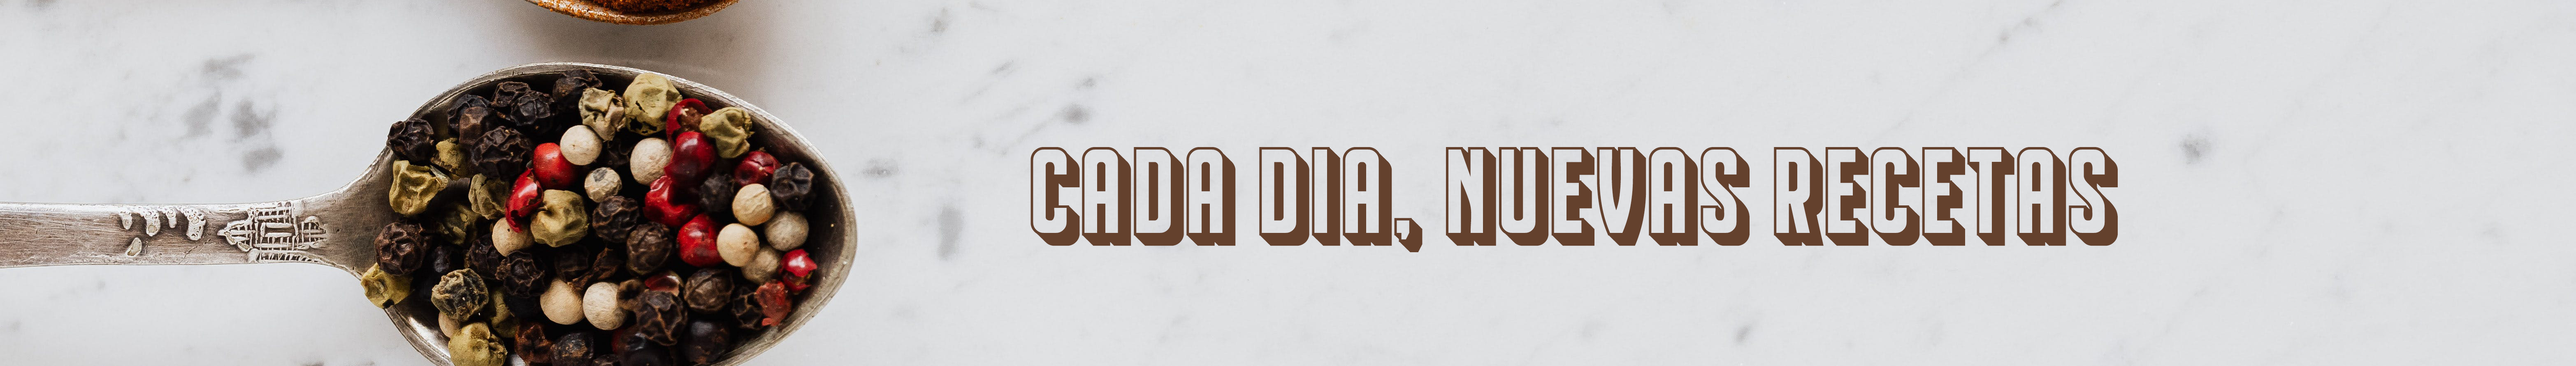
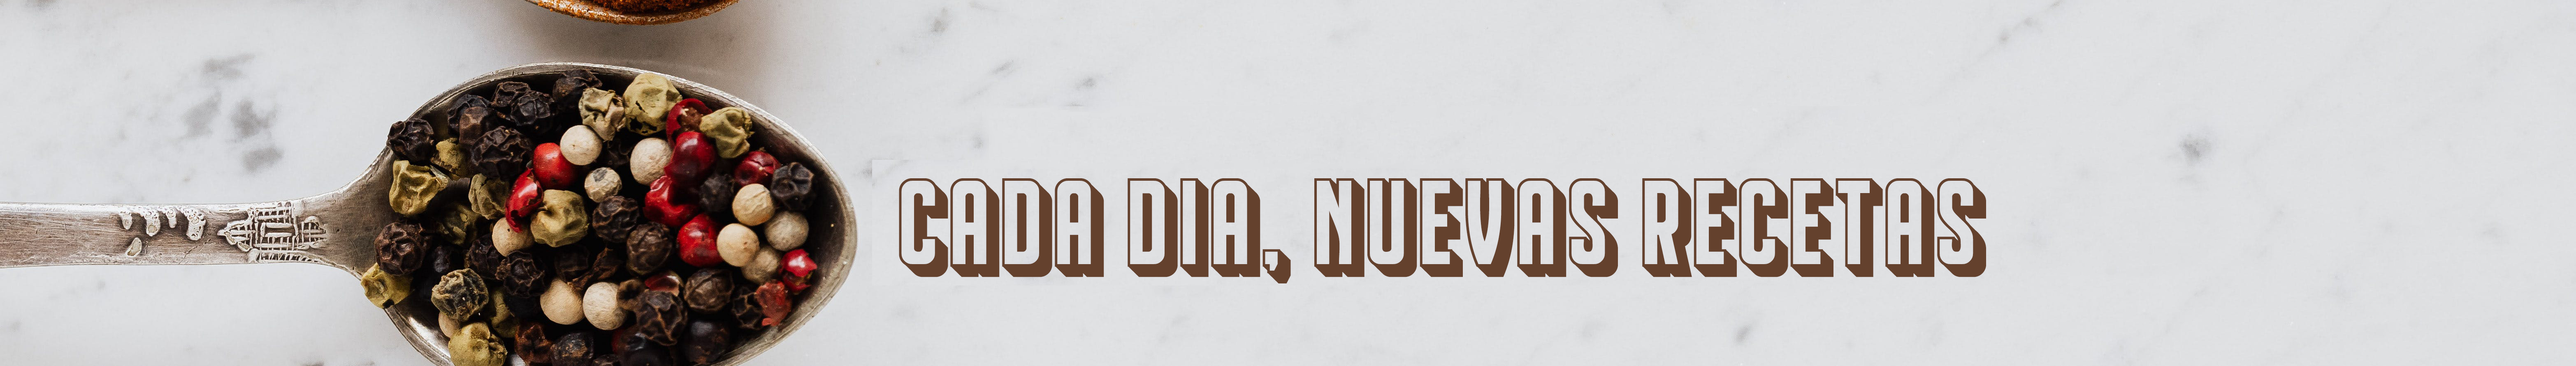
paocss

Changed region(s): [[0.3425, 0.3939, 0.8408, 0.7576], [0.4048, 0.303, 0.436, 0.3333], [0.3114, 0.4545, 0.3425, 0.4848]]

diff --git a/src/assets/scss/recetaCard.scss b/src/assets/scss/recetaCard.scss
@@ -21,20 +21,16 @@
             "img"
             "proceso "
             " desc";
+        width: 100%;
     }
 }
 .seccion-card {
-    width: 100%;
-    margin: 0px 20px;
     text-align: justify;
     border: 1px solid var(--color-tercero);
     border-radius: 10px;
     background-color: rgba(0, 0, 0, 0.5);
     color: var(--color-tercero);
-
-    @media (max-width: 700px) {
-        margin: auto;
-    }
+    padding-top: 3rem;
 }
 
 .contenedor-detalle {
@@ -43,7 +39,11 @@
     background-position: 50% 70%;
     text-align: right;
     height: 100%;
+    padding: 0 20px;
     padding-bottom: 2rem;
+    @media (max-width: 700px) {
+        width: 100%;
+    }
 }
 
 .detalle-receta-img {
@@ -63,6 +63,10 @@
     width: 100%;
 }
 
+.detalle-receta-descripcion {
+    margin: 0 20px;
+}
+
 .detalle-receta-proceso {
     grid-area: proceso;
     display: flex;
@@ -78,6 +82,7 @@
     justify-content: center;
     flex-direction: column;
     align-items: center;
+    padding: 1rem;
 }
 .detalle-receta-instrucciones {
     margin-bottom: 1rem;
@@ -85,4 +90,5 @@
     justify-content: center;
     flex-direction: column;
     align-items: center;
+    padding: 1rem;
 }

diff --git a/src/assets/scss/carusel.scss b/src/assets/scss/carusel.scss
@@ -1,11 +1,11 @@
 .carousel-header {
-    height: 120px;
+    height: 100px;
     color: black;
 }
 
 .carousel-header img {
     object-fit: cover;
-    height: 120px;
+    height: 100px;
     width: 100%;
 }
 
@@ -20,4 +20,18 @@
 
 .carousel-caption p {
     font-size: 1.5rem;
+}
+
+@media (max-width: 700px) {
+    .carousel-header img {
+        height: 100px;
+    }
+
+    .carousel-caption h3 {
+        font-size: 1.8rem;
+    }
+
+    .carousel-caption p {
+        font-size: 1rem;
+    }
 }
